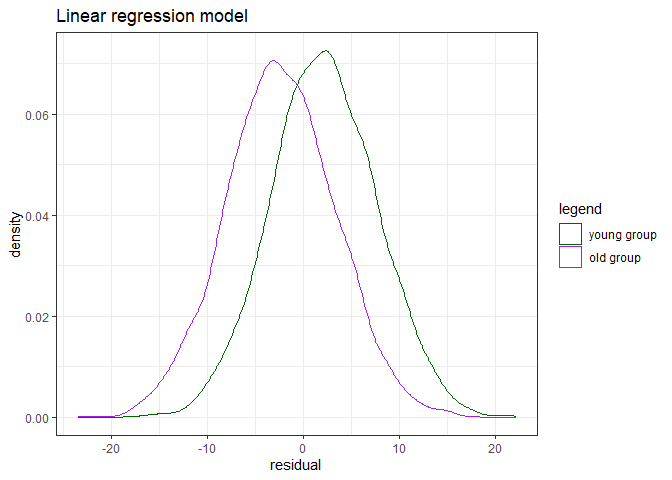
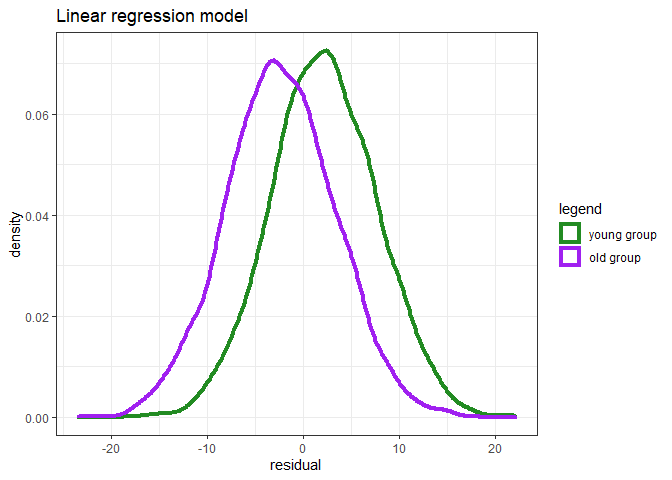
ÃUpdated plots

diff --git a/Explainer.md b/Explainer.md
@@ -2,15 +2,17 @@ Marije Sluiskes
 
 # Regression to the sample’s mean age in biological age prediction
 
-The goal of this document is to show why the phenomenon of *regression
-to the mean* is relevant when predicting biological age, and how it can
-lead to invalid conclusions when it is ignored. This document first
-introduces the concept of regression to the mean. It is explained why
-this unavoidable phenomenon is especially relevant in the context of
-biological age prediction. Finally, with artificially created data it is
-shown how this phenomenon can lead to wrong conclusions when
-interpreting the difference between true and predicted chronological age
-as an indication of accelerated/decelerated biological aging.
+The goal of this document is to show why the phenomenon of [*regression
+toward the
+mean*](https://en.wikipedia.org/wiki/Regression_toward_the_mean) is
+relevant when predicting biological age, and how it can lead to invalid
+conclusions when it is ignored. This document first introduces the
+concept of regression to the mean. It is explained why this unavoidable
+phenomenon is especially relevant in the context of biological age
+prediction. Finally, with artificially created data it is shown how this
+phenomenon can lead to wrong conclusions when interpreting the
+difference between true and predicted chronological age as an indication
+of accelerated/decelerated biological aging.
 
 ## What is regression to the mean?
 
@@ -308,8 +310,8 @@ t.test(mlr.res1,mlr.res0)
 
 ``` r
 ggplot(aes(x = mlr.res0), data = dftest_res0) +
-  geom_density(aes(col = "darkgreen")) +
-  geom_density(aes(x = mlr.res1, col = "purple"), data = dftest_res1) + 
+  geom_density(aes(col = "forestgreen"), size = 1.5) +
+  geom_density(aes(x = mlr.res1, col = "purple"), size = 1.5, data = dftest_res1) + 
   labs(title = "Linear regression model", x = "residual") +
   theme_bw() +
   scale_colour_identity(guide = "legend", 
@@ -337,8 +339,8 @@ t.test(gbm.res1,gbm.res0)
 
 ``` r
 ggplot(aes(x = gbm.res0), data = dftest_res0) +
-  geom_density(aes(col = "darkgreen")) +
-  geom_density(aes(x = mlr.res1, col = "purple"), data = dftest_res1) + 
+  geom_density(aes(col = "forestgreen"),  size = 1.5) +
+  geom_density(aes(x = mlr.res1, col = "purple"),  size = 1.5, data = dftest_res1) + 
   labs(title = "Generalized boosting regression model", x = "residual") +
   theme_bw() +
   scale_colour_identity(guide = "legend", 
